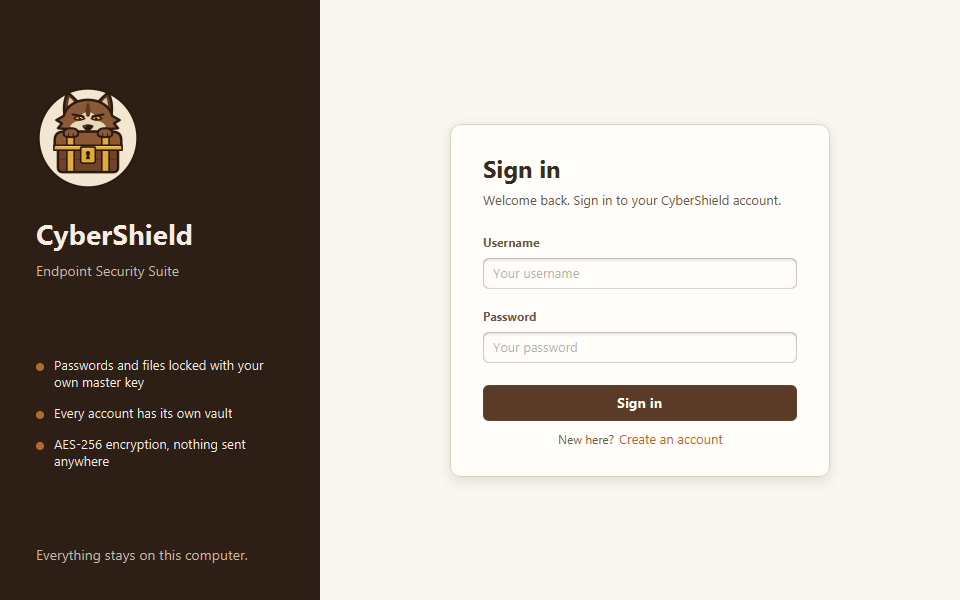
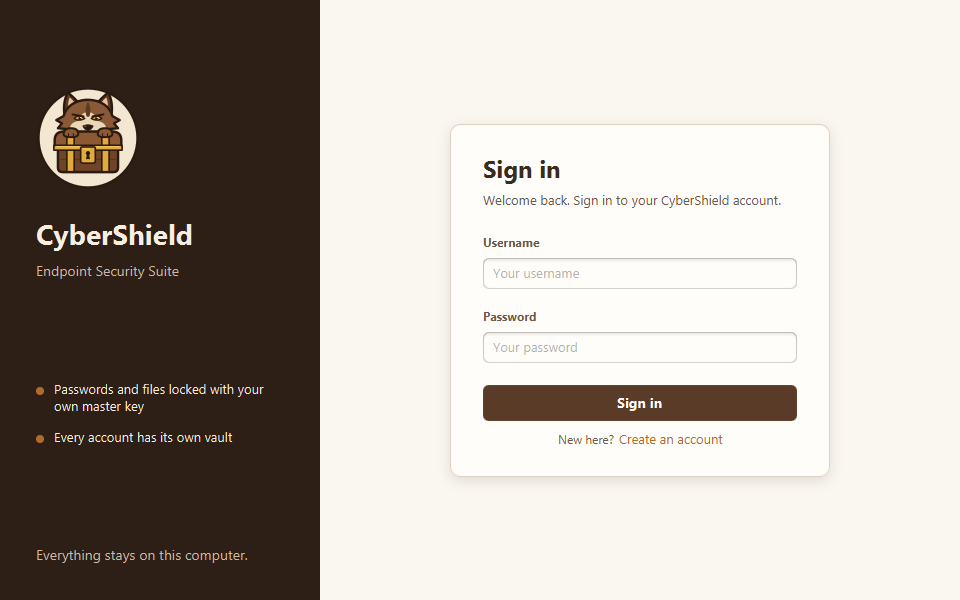
Sign-in screen: drop the AES-256 line

Changed region(s): [[0.0312, 0.6, 0.2812, 0.78]]

diff --git a/CHANGELOG.md b/CHANGELOG.md
@@ -15,7 +15,7 @@
 - **Sidebar:** the ☰ button in the header (or Ctrl+B) shrinks it to its icons, with the names as tooltips, and widens it again; ✕ closes it and ☰ brings it back.
 
 ### Changed
-- **Status bar:** the line naming the encryption (AES-256-GCM, PBKDF2) is gone.
+- **No encryption names on screen:** the status bar's line naming AES-256-GCM and PBKDF2, and the sign-in screen's "AES-256 encryption" point, are gone.
 - **Database upgrades on start:** a new `session_reports` table.
 - **Tests:** 151 JUnit tests now.
 
